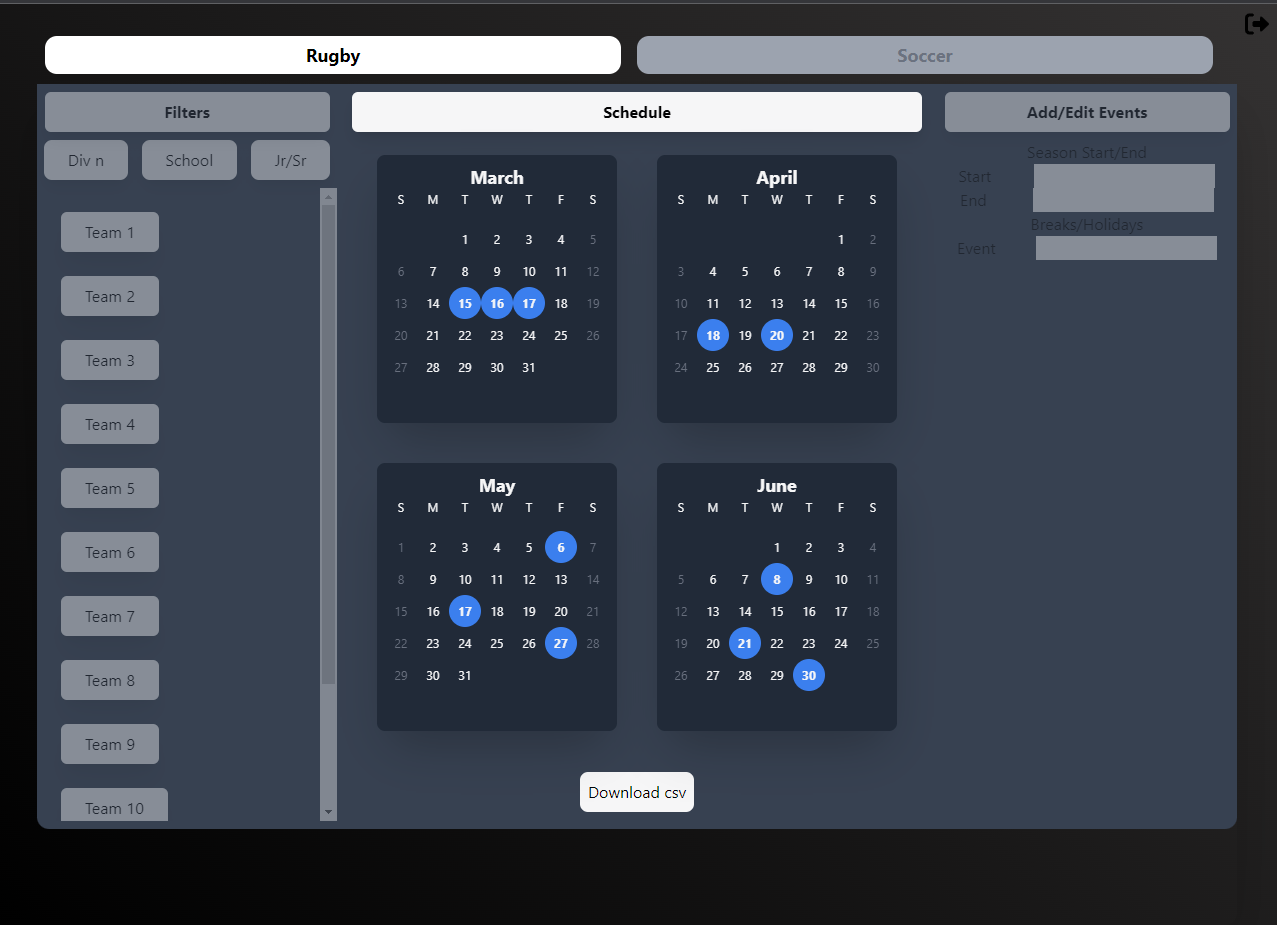
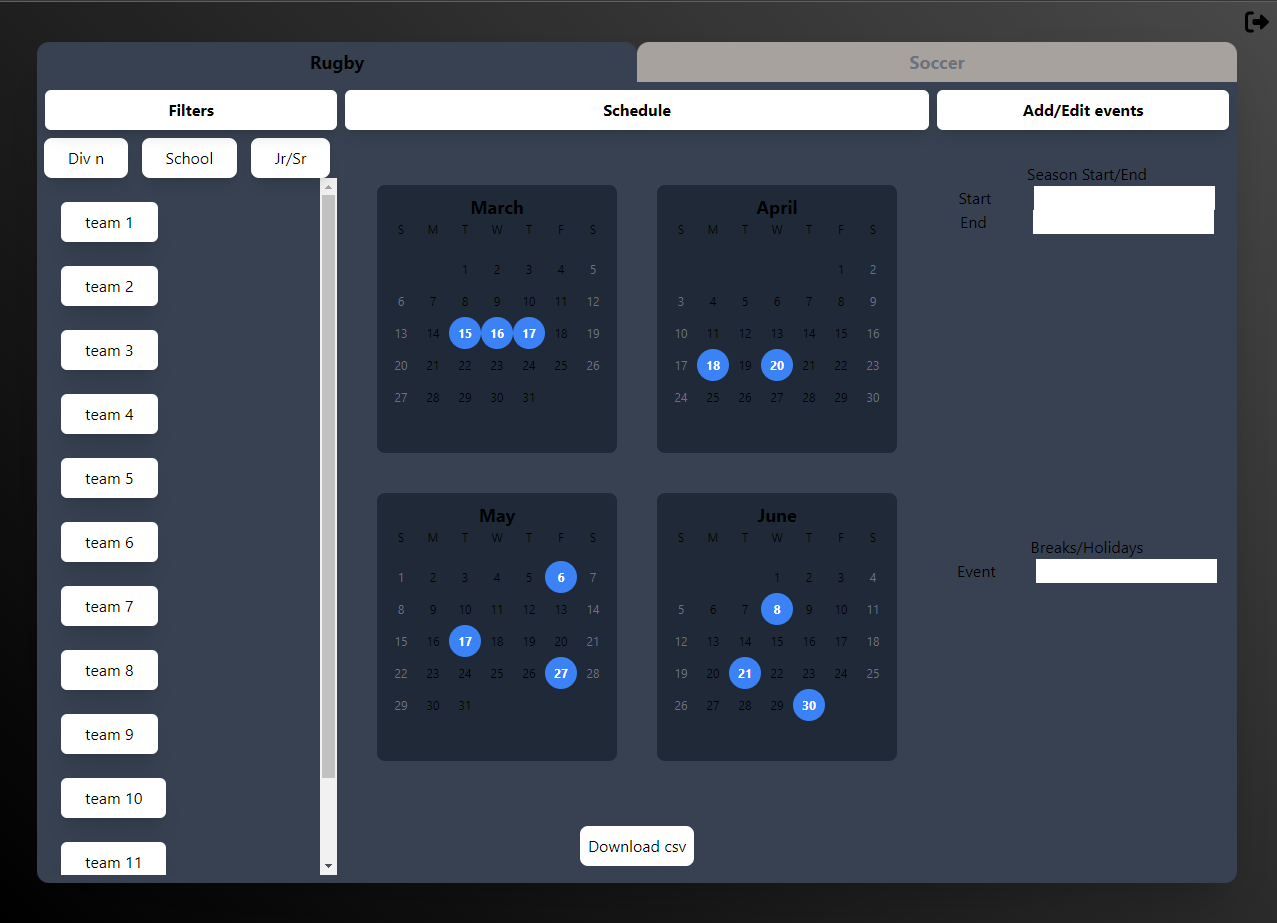
chore: updated read me , feat: fixed interacivity

diff --git a/src/components/Rugby.tsx b/src/components/Rugby.tsx
@@ -1,10 +1,9 @@
 import Btn from "./Btn";
 import Calendar from "./Calender";
 import { CSVLink } from "react-csv";
-import { uuid } from "uuidv4";
 
 const Main = () => {
-	const csvData = [
+const csvData = [
 		[
 			"Home Team",
 			"Visitor Team",
@@ -45,72 +44,75 @@ const Main = () => {
 	};
 
 	return (
-		<main className="w-full h-full rounded-xl shadow-2xl ">
-			<section className="flex w-full h-[calc(100%-6rem)] bg-gray-700 rounded-bl-xl rounded-br-xl">
-				<div className="w-1/2 h-full  rounded-bl-xl opacity-40 hover:opacity-100 duration-150 ease-in-out relative ">
-					<div className="w-[95%] h-10 absolute inset-x-0 mx-auto bg-white rounded-md shadow-lg mt-2">
-						<h1 className="font-bold absolute w-fit h-fit inset-0 m-auto">Filters</h1>
-					</div>
 
-					<div className="pt-14 flex w-ful h-10 justify-around">
-						<Btn title="Div n" />
-						<Btn title="School" />
-						<Btn title="Jr/Sr" />
-					</div>
-					<div className="translate-y-12 overflow-auto w-full h-[calc(100%-7rem)]">
-						{Object.keys(teams).map(team => {
-							return (
-								<div key={uuid()} className="w-fit h-fit px-6 py-2 bg-white ml-6 my-6 text-center shadow-xl rounded-md hover:scale-125">
-									{teams[Number(team)]} {team}
-								</div>
-							);
-						})}
-					</div>
-				</div>
-
-				<div className="w-full h-full flex flex-col overflow-auto opacity-40 hover:opacity-100 duration-150 ease-in-out relative">
-					<div className="w-[95%] h-10 absolute inset-x-0 mx-auto bg-white rounded-md shadow-lg mt-2">
-						<h1 className="font-bold absolute w-fit h-fit inset-0 m-auto">Schedule</h1>
-					</div>
-					<section className="h-fit w-fit relative grid grid-cols-2 grid-rows-2 gap-10 p-2 m-auto inset-0 translate-y-6">
-						{months.map(month => (
-							<Calendar key={uuid()} events={events[month]} month={month} />
-						))}
-					</section>
-
-					<section className="w-full h-[10%] grid place-content-center">
-						<button className="w-fit h-fit p-2 m-2 rounded-lg bg-white hover:scale-110 active:scale-90 duration-75 ease-in-out">
-							<CSVLink filename={"test.csv"} data={csvData}>
-								Download csv
-							</CSVLink>
-						</button>
-					</section>
-				</div>
-
-				<div className="w-1/2 h-full  rounded-bl-xl opacity-40 hover:opacity-100 duration-150 ease-in-out relative">
-					<div className="w-[95%] h-10 absolute inset-x-0 mx-auto bg-white rounded-md shadow-lg mt-2">
-						<h1 className="font-bold absolute w-fit h-fit inset-0 m-auto">Add/Edit Events</h1>
-					</div>
-					<div className="w-full h-full py-6 translate-y-8">
-						<h1 className="text-center">Season Start/End</h1>
-						<div className="flex justify-around">
-							<p>Start</p>
-							<input type="text" />
+			<main className="w-full h-full rounded-xl shadow-2xl ">
+				<section className="flex w-full h-[calc(100%-6rem)] bg-gray-700 rounded-bl-xl rounded-br-xl">
+					<div className="w-1/2 h-full  rounded-bl-xl opacity-40 hover:opacity-100 duration-150 ease-in-out relative ">
+						<div className="w-[95%] h-10 absolute inset-x-0 mx-auto bg-white rounded-md shadow-lg mt-2">
+							<h1 className="font-bold absolute w-fit h-fit inset-0 m-auto">Filters</h1>
 						</div>
 
-						<div className="flex justify-around">
-							<p>End</p>
-							<input type="text" />
+						<div className="pt-14 flex w-ful h-10 justify-around">
+							<Btn title="Div n" />
+							<Btn title="School" />
+							<Btn title="Jr/Sr" />
 						</div>
-						<h1 className="text-center">Breaks/Holidays</h1>
-						<div className="flex justify-around">
-							<p>Event</p>
-							<input type="text" />
+						<div className="translate-y-12 overflow-auto w-full h-[calc(100%-7rem)]">
+							{Object.keys(teams).map(team => {
+								return (
+									<div className="w-fit h-fit px-6 py-2 bg-white ml-6 my-6 text-center shadow-xl rounded-md hover:scale-125">
+										{teams[Number(team)]} {team}
+									</div>
+								);
+							})}
 						</div>
 					</div>
-				</div>
-			</section>
-		</main>
-	);
-};
-export default Main;
+
+					<div className="w-full h-full flex flex-col overflow-auto opacity-40 hover:opacity-100 duration-150 ease-in-out relative">
+						<div className="w-[95%] h-10 absolute inset-x-0 mx-auto bg-white rounded-md shadow-lg mt-2">
+							<h1 className="font-bold absolute w-fit h-fit inset-0 m-auto">Schedule</h1>
+						</div>
+						<section className="h-fit w-fit relative grid grid-cols-2 grid-rows-2 gap-10 p-2 m-auto inset-0 translate-y-6">
+							{months.map(month => (
+								<Calendar events={events[month]} month={month} />
+							))}
+						</section>
+
+						<section className="w-full h-[10%] grid place-content-center">
+							<button className="w-fit h-fit p-2 m-2 rounded-lg bg-white hover:scale-110 active:scale-90 duration-75 ease-in-out">
+								<CSVLink filename={"test.csv"} data={csvData}>
+									Download csv
+								</CSVLink>
+							</button>
+						</section>
+					</div>
+
+					<div className="w-1/2 h-full  rounded-bl-xl opacity-40 hover:opacity-100 duration-150 ease-in-out relative">
+						<div className="w-[95%] h-10 absolute inset-x-0 mx-auto bg-white rounded-md shadow-lg mt-2">
+							<h1 className="font-bold absolute w-fit h-fit inset-0 m-auto">Add/Edit Events</h1>
+						</div>
+						<div className="w-full h-full py-6 translate-y-8">
+							<h1 className="text-center">Season Start/End</h1>
+							<div className="flex justify-around">
+								<p>Start</p>
+								<input type="text" />
+							</div>
+
+							<div className="flex justify-around">
+								<p>End</p>
+								<input type="text" />
+							</div>
+							<h1 className="text-center">Breaks/Holidays</h1>
+							<div className="flex justify-around">
+								<p>Event</p>
+								<input type="text" />
+							</div>
+						</div>
+					</div>
+				</section>
+			</main>
+
+	)
+
+}
+export default Main

diff --git a/src/components/Calender.tsx b/src/components/Calender.tsx
@@ -1,5 +1,3 @@
-import { uuid } from "uuidv4";
-
 const Calendar = (props: any) => {
 	const year = 2022;
 	const month = props.month;
@@ -31,6 +29,7 @@ const Calendar = (props: any) => {
 	}
 
 	const events = props.events;
+	console.log(events[0]);
 
 	let currentWeekEnds: number[] = [];
 	let nextWeekEnds: number[] = [];
@@ -70,47 +69,28 @@ const Calendar = (props: any) => {
 				<h1 className="text-center text-lg font-bold text-white">{months[month]}</h1>
 
 				<div className="grid grid-cols-7 grid-rows-7 text-center text-xs">
-					{weekDays.map(day => (
-						<div key={uuid()} className="w-8 h-8 text-center text-white">
-							{day}
-						</div>
-					))}
+						{weekDays.map(day => (
+							<div className="w-8 h-8 text-center text-white">{day}</div>
+						))}
 					{firstDays.map(day => (
-						<div key={uuid()}> </div>
+						<div> </div>
 					))}
 
 					{days.map(day => {
 						if (currentWeekEnds.includes(day)) {
-							return (
-								<div key={uuid()} className={"text-gray-500 -500 relative w-8 h-8 cursor-pointer"}>
-									<p key={uuid()} className=" absolute m-auto w-fit h-fit inset-0 text-gray-500 ">
-										{day}
-									</p>
-								</div>
-							);
+							return <div className={"text-gray-500 -500 relative w-8 h-8 cursor-pointer"}> <p className=" absolute m-auto w-fit h-fit inset-0 text-gray-500 ">{day}</p></div>;
 						}
 						if (events[index] == day) {
 							index++;
-							return (
-								<div key={uuid()} className={"relative w-7 h-7 bg-blue-500 rounded-full cursor-pointer"}>
-									<p key={uuid()} className="absolute inset-0 m-auto text-white w-fit h-fit font-bold ">
-										{day}
-									</p>
-								</div>
-							);
+							return <div className={"relative w-8 h-8 bg-blue-500 rounded-full cursor-pointer"}> <p className="absolute inset-0 m-auto text-white w-fit h-fit font-bold ">{day}</p></div>;
 						} else {
-							return (
-								<div key={uuid()} className={"text-white relative w-8 h-8 cursor-pointer hoverDay"}>
-									<p key={uuid()} className=" absolute m-auto w-fit h-fit inset-0 ">
-										{day}
-									</p>
-								</div>
-							);
+
+							return <div className={"text-white relative w-8 h-8 cursor-pointer hoverDay"}> <p className=" absolute m-auto w-fit h-fit inset-0 ">{day}</p></div>;
 						}
 					})}
 
 					{lastDays.map(day => (
-						<div key={uuid()}> </div>
+						<div> </div>
 					))}
 				</div>
 			</main>

diff --git a/src/components/App.tsx b/src/components/App.tsx
@@ -2,46 +2,39 @@ import { useState } from "react";
 import Rugby from "./Rugby";
 import Soccer from "./Soccer";
 import Sport from "./Sport";
-import { signOut } from "firebase/auth";
-import auth from "./auth";
 
 const App = () => {
 	// false == rugby, true == soccer
 	const [rugbyActive, setRugbyActive] = useState(true);
 	const [soccerActive, setSoccerActive] = useState(false);
+	
+
+	const setRugby = () => {
+		setRugbyActive(prev => true);
+		setSoccerActive(prev => false);
+	};
+
+	const setSoccer = () => {
+		setRugbyActive(prev => false);
+		setSoccerActive(prev => true);
+	};
 
 	return (
 		<>
-			<button
-				onClick={() => {
-					signOut(auth);
-					location.href = "/"
-				}}
-				className="w-6 h-6 absolute top-2 right-2 hover:scale-125 active:scale-90"
-			>
-				<svg xmlns="http://www.w3.org/2000/svg" viewBox="0 0 512 512">
+			<a href="/">
+				<svg xmlns="http://www.w3.org/2000/svg" viewBox="0 0 512 512" className="w-6 h-6 absolute top-2 right-2 hover:scale-125 active:scale-90">
 					<path d="M160 96c17.7 0 32-14.3 32-32s-14.3-32-32-32H96C43 32 0 75 0 128V384c0 53 43 96 96 96h64c17.7 0 32-14.3 32-32s-14.3-32-32-32H96c-17.7 0-32-14.3-32-32l0-256c0-17.7 14.3-32 32-32h64zM504.5 273.4c4.8-4.5 7.5-10.8 7.5-17.4s-2.7-12.9-7.5-17.4l-144-136c-7-6.6-17.2-8.4-26-4.6s-14.5 12.5-14.5 22v72H192c-17.7 0-32 14.3-32 32l0 64c0 17.7 14.3 32 32 32H320v72c0 9.6 5.7 18.2 14.5 22s19 2 26-4.6l144-136z" />
 				</svg>
-			</button>
+			</a>
 			<nav className="flex w-full h-10">
-				<Sport
-					sport="Rugby"
-					thing={rugbyActive}
-					click={() => {
-						setRugbyActive(true);
-						setSoccerActive(false);
-					}}
-				/>
-				<Sport
-					sport="Soccer"
-					thing={soccerActive}
-					click={() => {
-						setRugbyActive(false);
-						setSoccerActive(true);
-					}}
-				/>
+				<Sport sport="Rugby" thing={rugbyActive} click={setRugby} />
+				<Sport sport="Soccer" thing={soccerActive} click={setSoccer} />
 			</nav>
-			{rugbyActive ? <Rugby /> : <Soccer />}
+			{
+				rugbyActive 
+				? <Rugby/>
+				: <Soccer/>
+			}
 		</>
 	);
 };

diff --git a/src/components/Sport.tsx b/src/components/Sport.tsx
@@ -1,14 +1,15 @@
 const Sport = (props: any) => {
 	const activeSport = props.thing;
 
+
 	return (
 		<>
 			{activeSport ? (
-				<div onClick={props.click} className=" bg-white w-[48%] h-[95%] relative rounded-xl m-2 translate-y-[-1rem] hover:scale-[102%] active:scale-[95%] duration-75 ease-in-out">
+				<div onClick={props.click} className=" bg-white w-[48%] h-[95%] relative rounded-xl m-2 translate-y-[-1rem] hover:scale-[105%] active:scale-[95%] duration-75 ease-in-out">
 					<h1 className=" text-lg font-bold w-fit h-fit absolute inset-0 m-auto">{props.sport}</h1>
 				</div>
 			) : (
-				<div onClick={props.click} className=" bg-gray-400 w-[48%] h-[95%] relative rounded-xl m-2 translate-y-[-1rem] hover:scale-[102%] active:scale-[98%] duration-75 ease-in-out">
+				<div  onClick={props.click} className=" bg-gray-400 w-[48%] h-[95%] relative rounded-xl m-2 translate-y-[-1rem] hover:scale-[105%] active:scale-[95%] duration-75 ease-in-out">
 					<h1 className="  text-gray-500 text-lg font-bold w-fit h-fit absolute inset-0 m-auto">{props.sport}</h1>
 				</div>
 			)}

diff --git a/README.md b/README.md
@@ -8,11 +8,12 @@
 
 # ToDo list
 - Cal section full screen
+- Cal multiple views (day, week, month, season, ext.)
 - Web Dev simple filter select component
 - Setup filters
-- FireBase Login
-- Sengrid forgot password
+- Add forgot password button
+- Invalid login info 
 - FireBase DataBase
-- Calendar more reactive
-- BEtter responsiveness
 - Admin pane 
+- Change both panes as slide outs
+- Daisy ui Maybe
